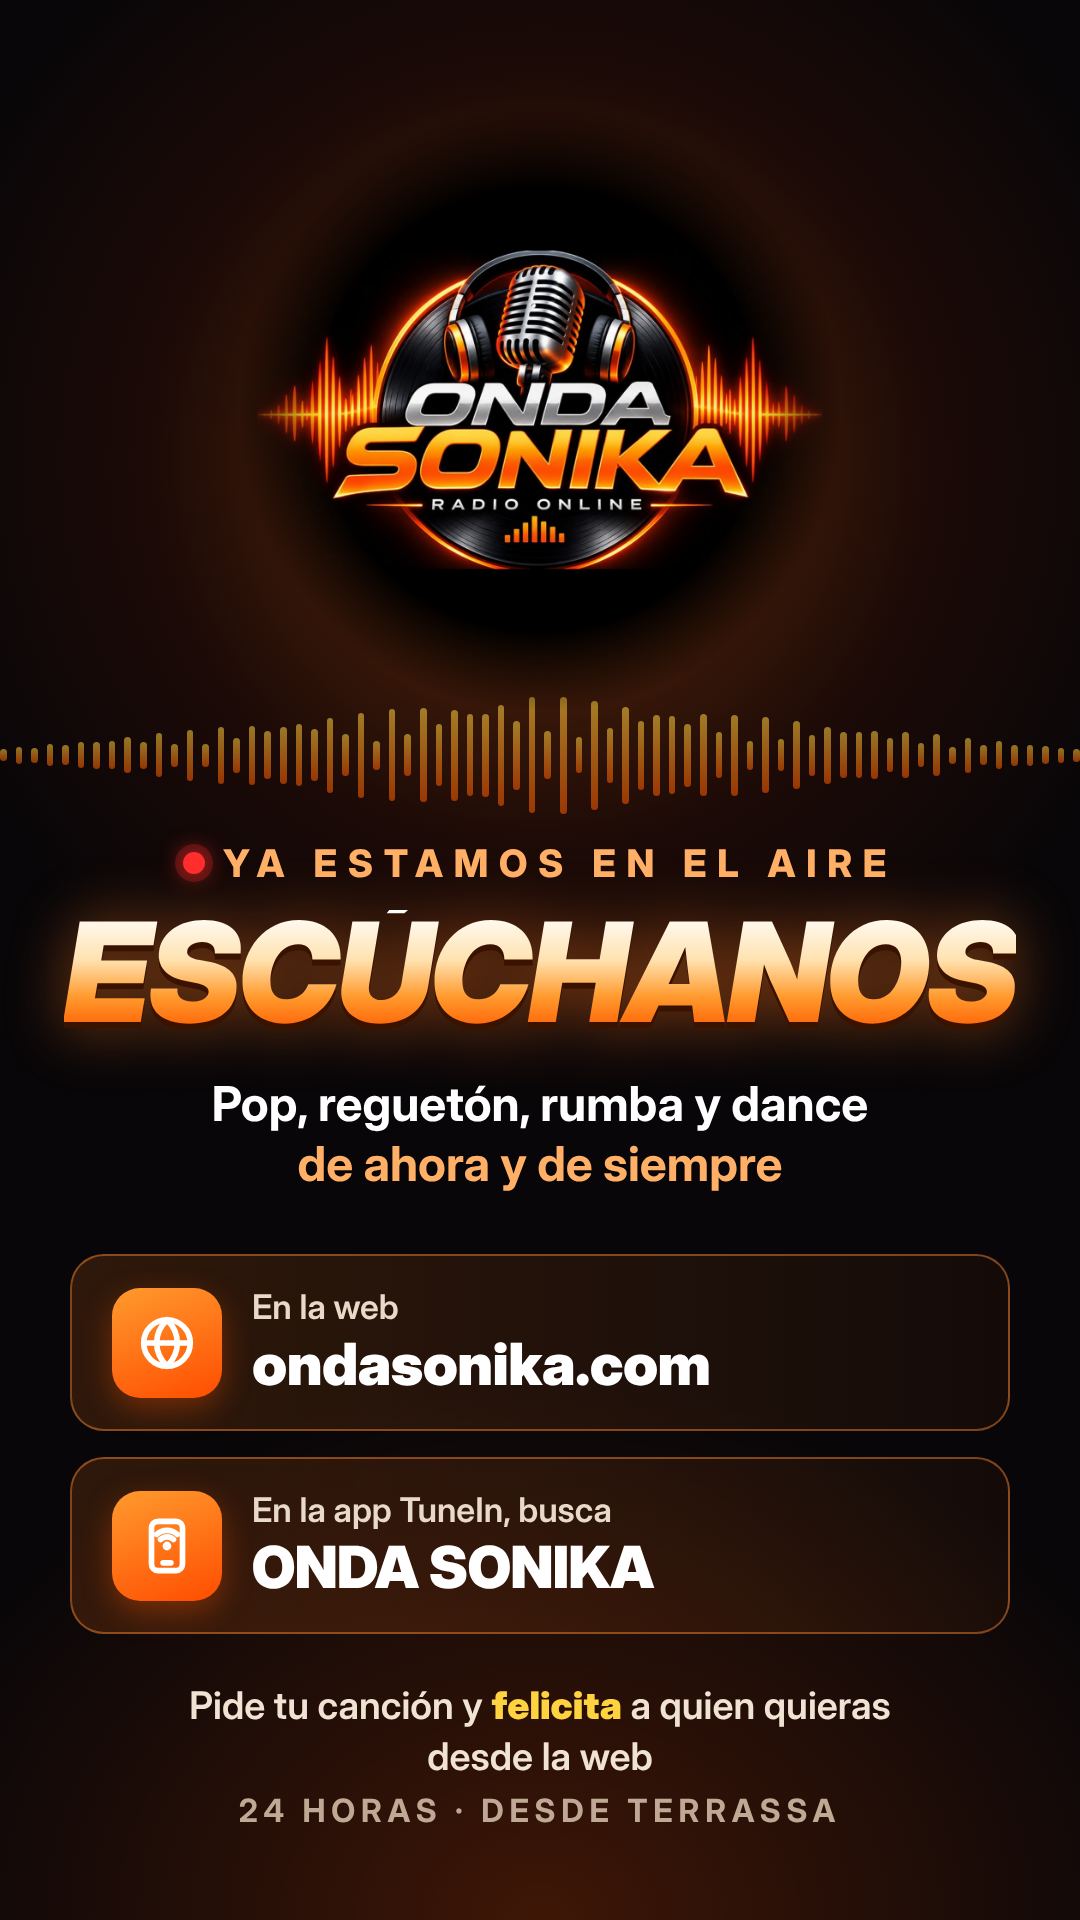
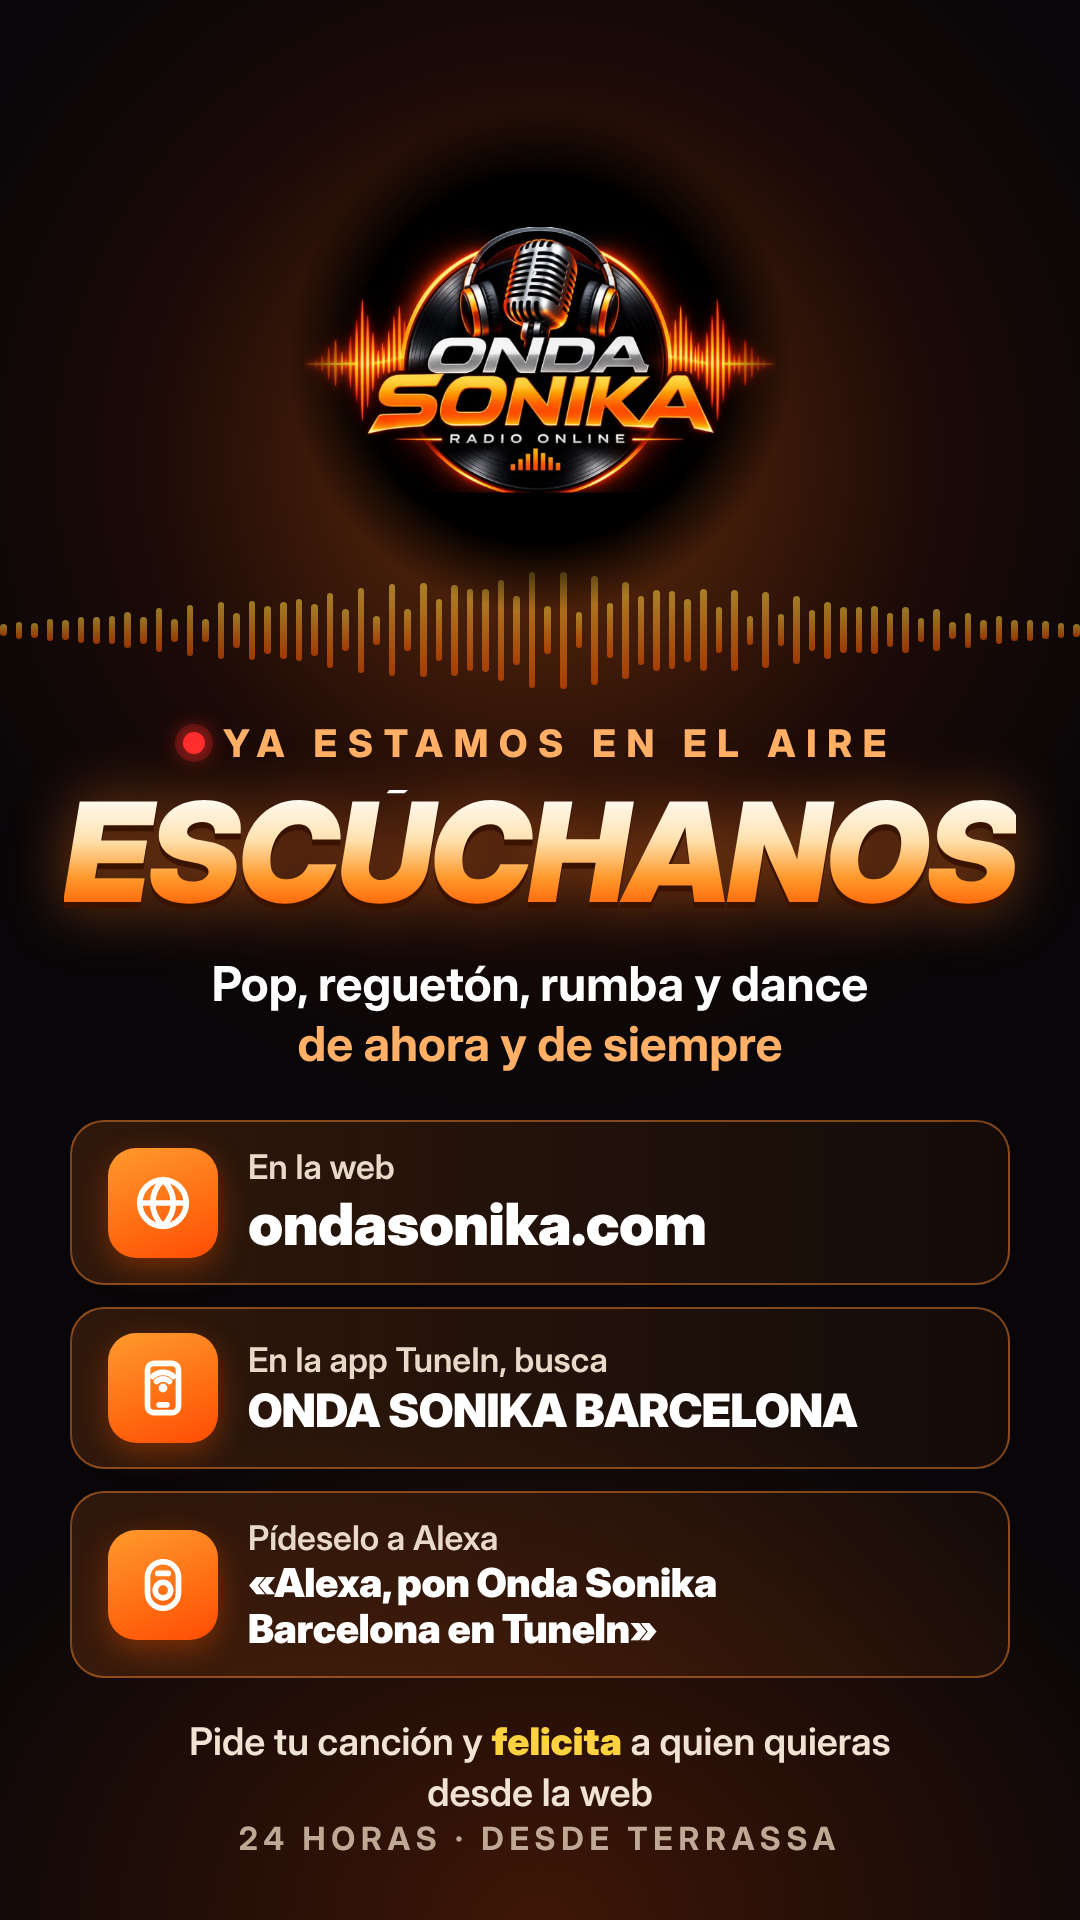
Promo: imagen con TuneIn BARCELONA y Alexa, texto con botón Copiar
Claude-Session: https://claude.ai/code/session_0193Gc6WkG3EG4sShWebj6tJ

diff --git a/promo/index.html b/promo/index.html
@@ -1,6 +1,14 @@
 <!doctype html><html lang="es"><head><meta charset="utf-8"><meta name="viewport" content="width=device-width,initial-scale=1"><meta name="robots" content="noindex"><title>Promo · ONDA SONIKA</title>
 <style>body{margin:0;background:#0b0a10;color:#f4f1ec;font:16px/1.5 system-ui,sans-serif;padding:20px 16px}h1{font-size:22px}a.b{display:block;background:#ff2e88;color:#fff;text-align:center;padding:14px;border-radius:12px;text-decoration:none;font-weight:800;margin:8px 0 22px}video,img{width:100%;border-radius:12px;background:#000}.n{color:#a9a2b3;font-size:14px}</style></head><body>
 <h1>Material para redes · ONDA SONIKA</h1>
+<h2>Texto para copiar (estados, TikTok, Instagram, WhatsApp)</h2><textarea id="txt" readonly style="width:100%;height:260px;font:16px/1.45 system-ui;padding:14px;border-radius:12px;border:1px solid #444;background:#151218;color:#f3e9e0">🎶 ONDA SONIKA ya está en el aire 🎶
+Pop, reguetón, rumba y dance de ahora y de siempre, las 24 horas.
+
+▶ Escúchanos en ondasonika.com
+📱 En la app TuneIn, busca ONDA SONIKA BARCELONA
+🔊 Con Alexa: «Alexa, pon Onda Sonika Barcelona en TuneIn»
+
+Pide tu canción y felicita a quien quieras desde la web 💛</textarea><button class="b" id="cp" type="button" style="border:0;cursor:pointer;font:inherit">Copiar texto</button><script>document.getElementById("cp").onclick=async()=>{const t=document.getElementById("txt");try{await navigator.clipboard.writeText(t.value)}catch(e){t.select();document.execCommand("copy")}const b=document.getElementById("cp");b.textContent="¡Copiado!";setTimeout(()=>b.textContent="Copiar texto",2000)}</script>
 <h2>Escúchanos (estado WhatsApp, historia de Instagram y TikTok)</h2><img src="onda-sonika-escuchanos-story.png" alt="Escúchanos en ondasonika.com y TuneIn"><a class="b" href="onda-sonika-escuchanos-story.png" download>Descargar imagen</a>
 <h2>Viernes Tecnodance</h2>
 <p class="n">En el iPhone: abre el vídeo, pulsa el botón de compartir (cuadrado con flecha) y elige «Guardar vídeo». Para las imágenes, mantén el dedo encima y «Añadir a Fotos».</p>
